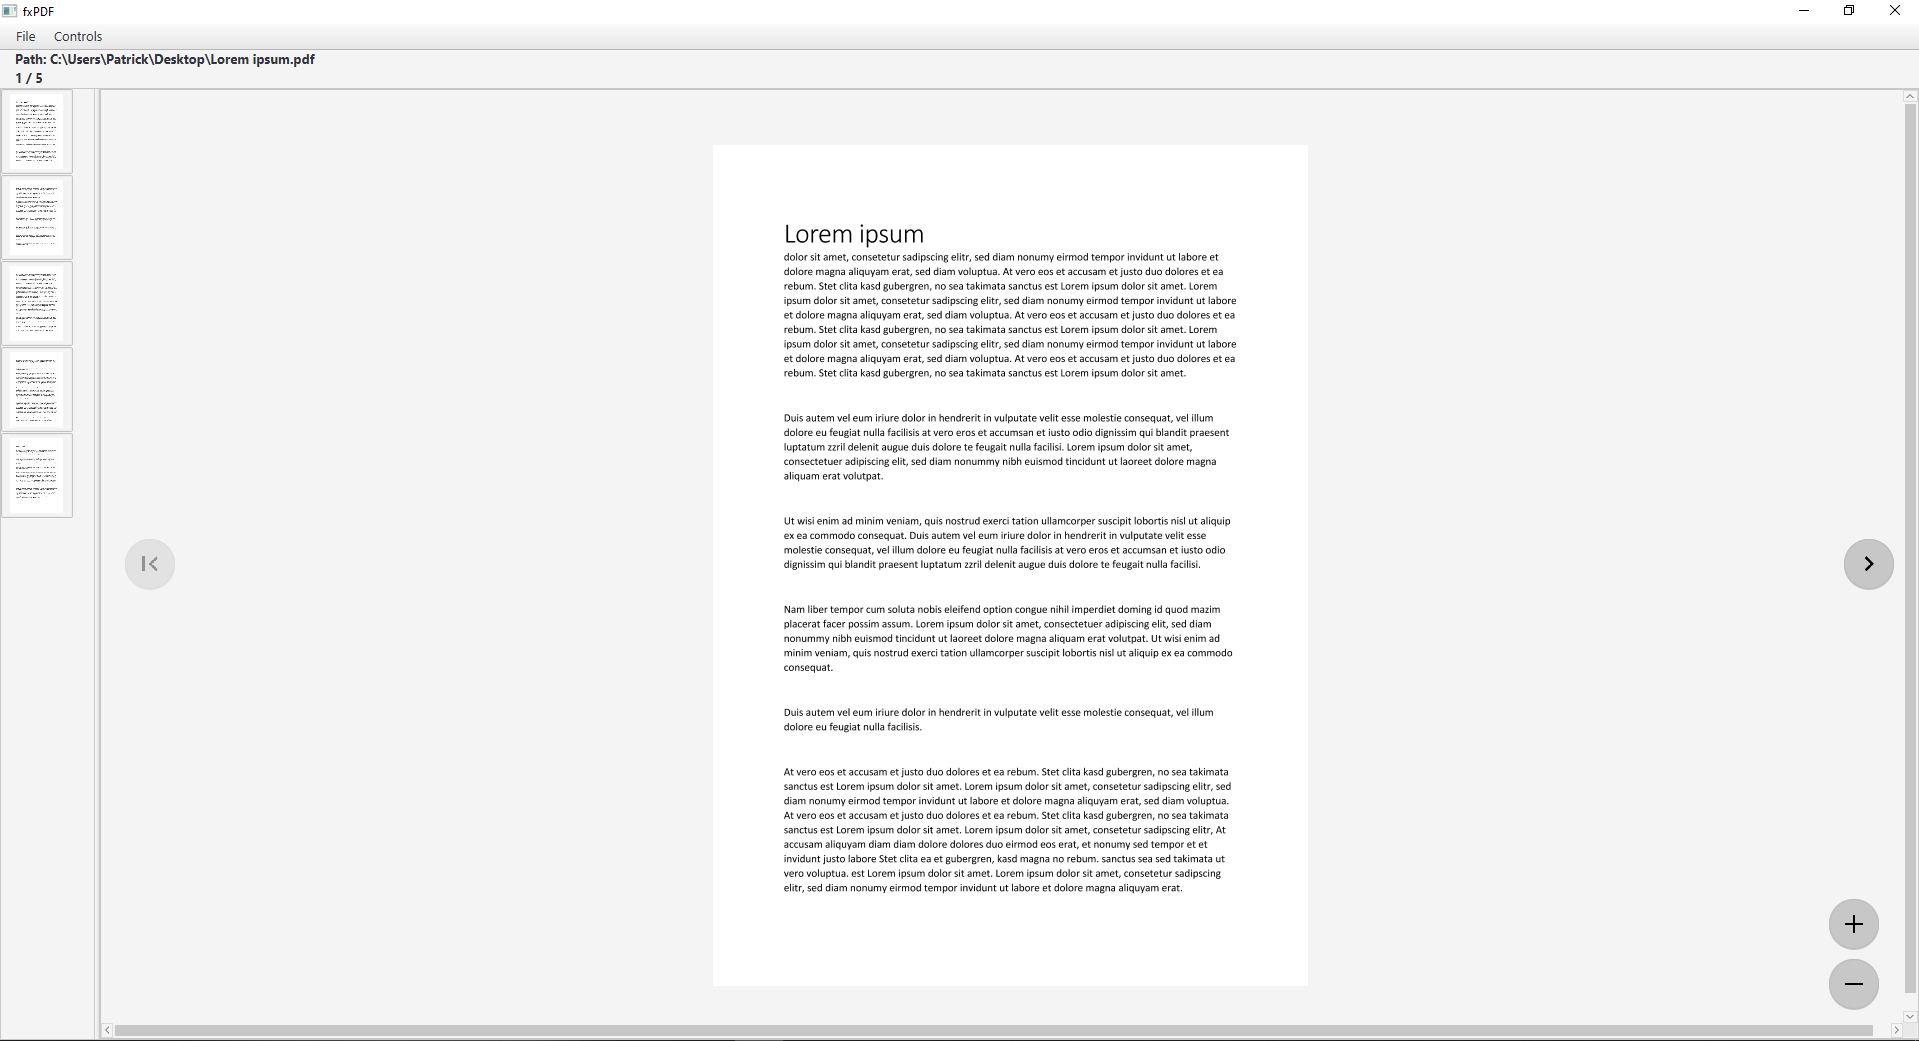
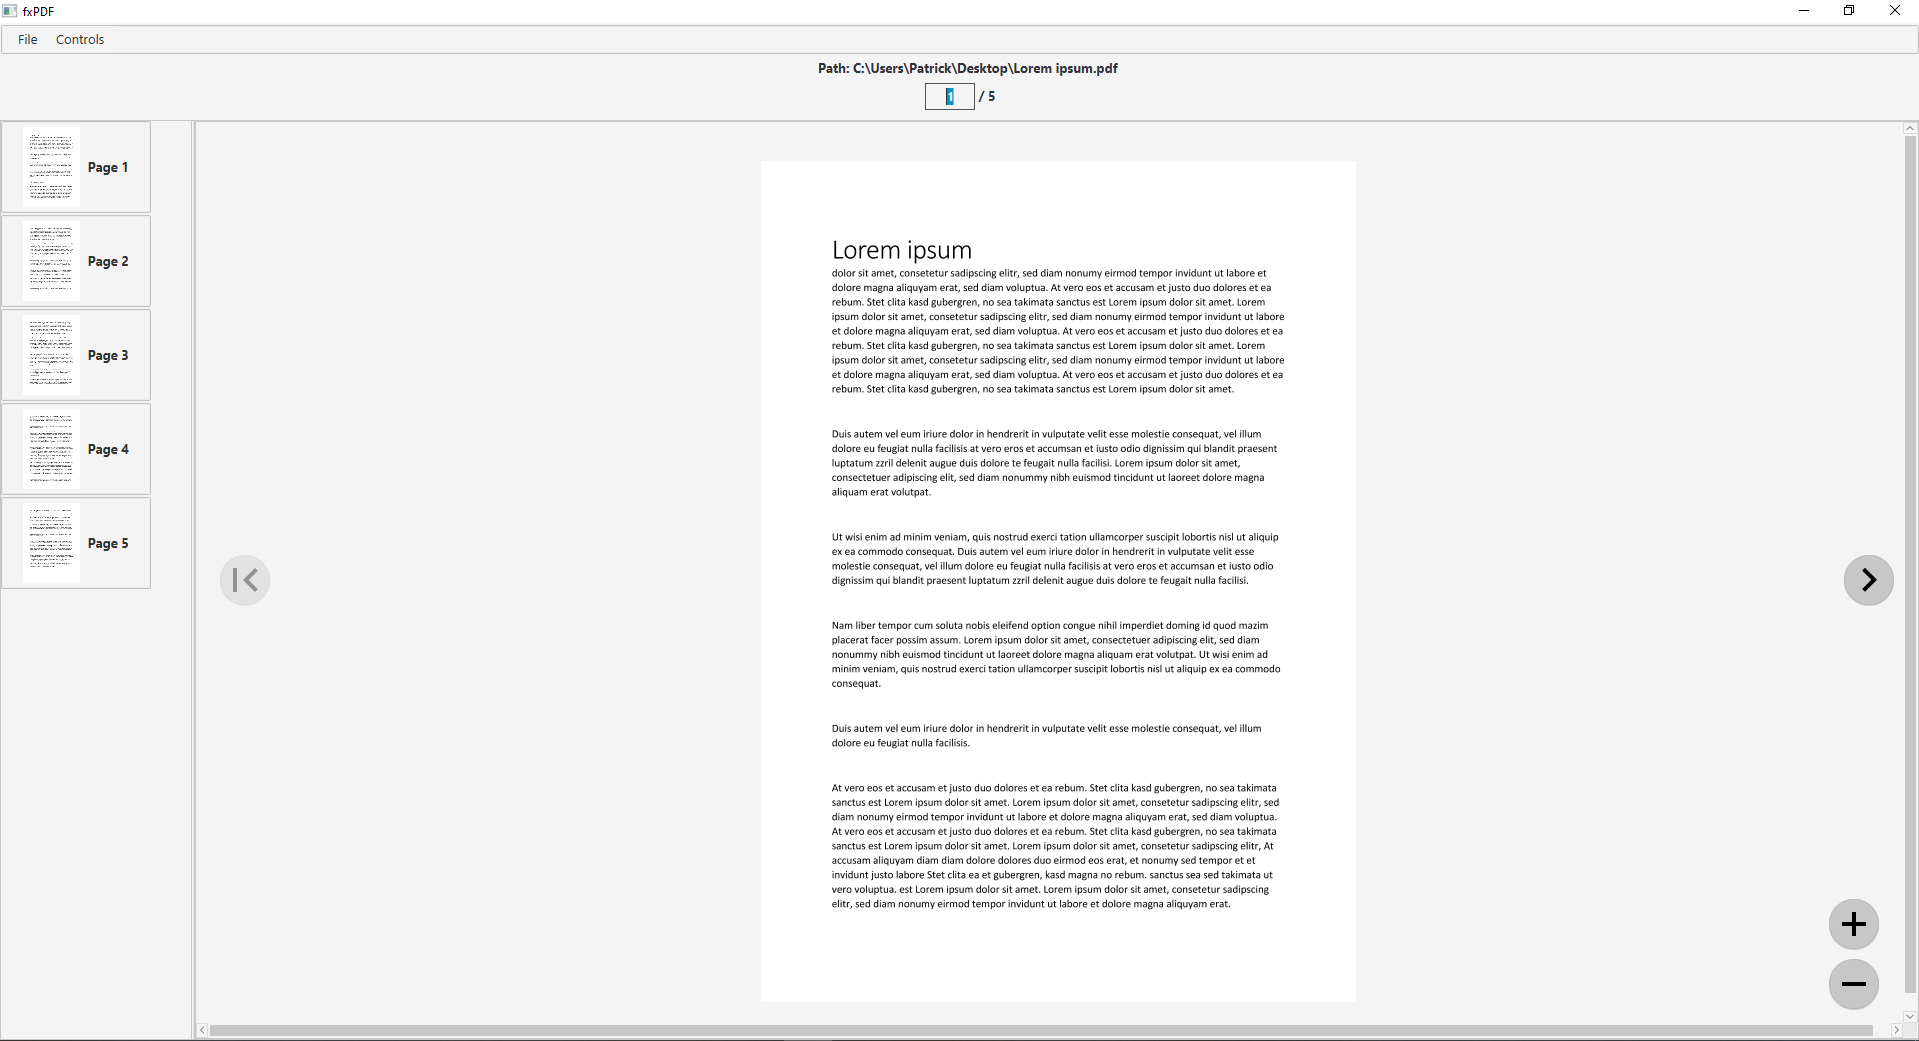
Update

diff --git a/src/viewer/PDFViewer.java b/src/viewer/PDFViewer.java
@@ -157,7 +157,7 @@ public class PDFViewer extends BorderPane {
             this.splitPane.getItems().addAll(this.pagePreview, this.viewer);
             this.toolbar.getChildren().addAll(this.menuBar, this.name, this.pageChooser);
             this.setTop(this.toolbar);
-            BorderPane.setMargin(this.toolbar, new Insets(10));
+            BorderPane.setMargin(this.toolbar, new Insets(2,1,10,1));
             this.setCenter(this.splitPane);
         } else {
             throw new NullPointerException("The parameter pdf and stage is null. Please check this parameter in the constructor.");

diff --git a/README.md b/README.md
@@ -24,7 +24,7 @@ The ViewType IMAGE displays each page of the PDF individually. You can navigate 
 PDF pdf = new PDF(file); // Create a PDF 
 Viewer v = new Viewer(pdf); // The Viewer object
 root.getChildren().add(v); // Add the Viewer to the root-Pane
-```
+``` 
 #### Methods
 <table>
   <tr>
